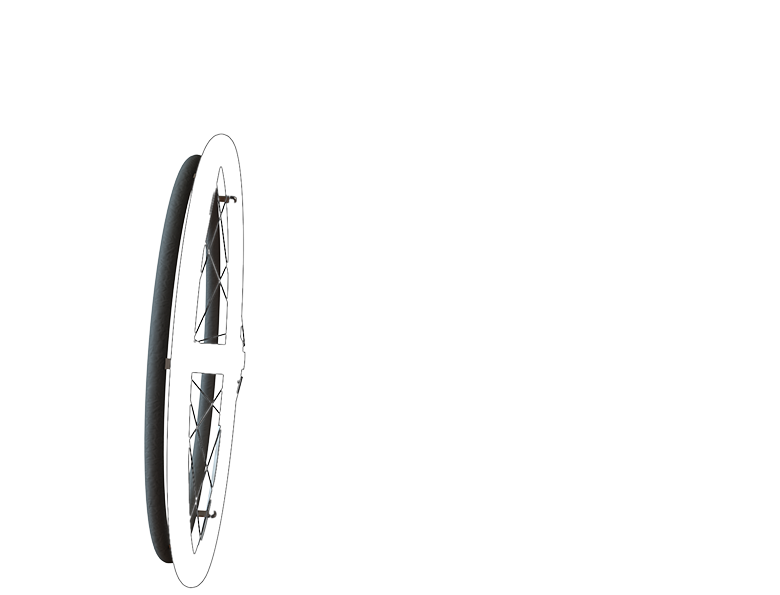
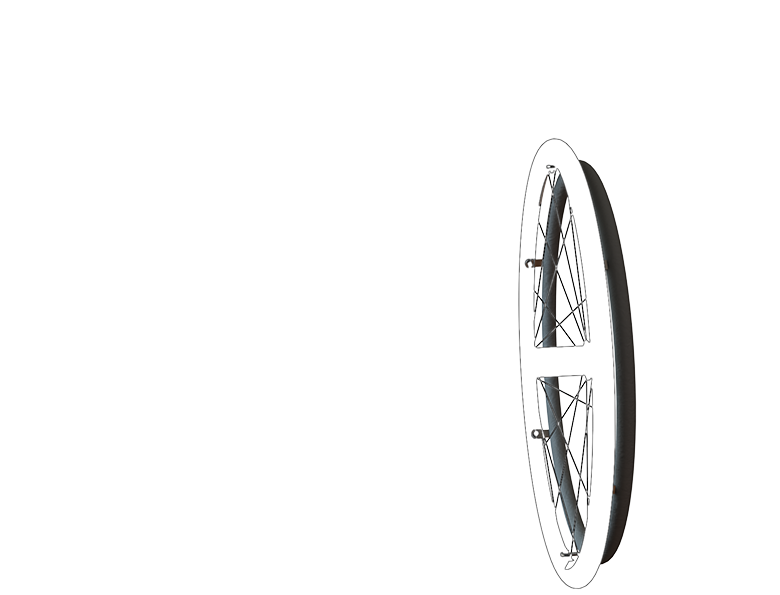
product working version.  problem: loading glitch when switch part

Changed region(s): [[0.6462, 0.2723, 0.8308, 0.9681], [0.1846, 0.242, 0.3385, 0.9681]]

diff --git a/app/scripts/controllers/AbacusCtrl.js b/app/scripts/controllers/AbacusCtrl.js
@@ -1,4 +1,4 @@
-// jshint unused:false
+// jshint unused:false
 /* globals frameDataFromDB, $ */
 'use strict';
 
@@ -47,6 +47,8 @@ angular.module('abacuApp')
       COLOR: 'color',
       DETAIL: 'detail'
     };
+
+    $scope.loadImgs = [];
 
     /**********************Main Variables****************************/
 
@@ -120,6 +122,7 @@ angular.module('abacuApp')
       $scope.frameData = frameDataFromDB; // all of our data about the frame (from dbLoad.js)
       generatePages();
       generateCurWheelchair();
+      $scope.loadImgs = getCurWheelchairImages();
     }
 
     init(); //Initialize the page
@@ -179,7 +182,7 @@ angular.module('abacuApp')
 
       var partURL = previewBaseURL + 'frame' + frameIDString + '/';
       partURL += 'part' + partIDString + '/';
-      partURL += optionIDString + colorString + subIndString + angleString + previewImageType;
+      partURL += optionIDString + colorString + subIndString + "_Front" + previewImageType;
 
 
 
@@ -199,7 +202,7 @@ angular.module('abacuApp')
     var oldImgs = null;
     //Returns an array of imagesURLs to be displayed
     //stacked from first to last (Ascending z-index order)
-    $scope.getCurWheelchairImages = function () {
+    function getCurWheelchairImages (){
       var imgs = [];
       //Generate array of images with zRank's
       for (var i = 0; i < curWheelchair.parts.length; i++) {
@@ -221,10 +224,10 @@ angular.module('abacuApp')
       //Keep old values for Angular's $digest
       //since img is not the same memory address as oldImg, Angular continuously reloads img until it crashes
       //If img doesn't change, simply reload the old memory for Angular
-      if (imgsUnchanged(imgs, oldImgs)) {
-        imgs = oldImgs;
-      }
-      oldImgs = imgs;
+      //if (imgsUnchanged(imgs, oldImgs)) {
+      //  imgs = oldImgs;
+      //}
+      //oldImgs = imgs;
 
       console.log(JSON.stringify(imgs));
       return imgs;
@@ -480,7 +483,7 @@ angular.module('abacuApp')
     $scope.setCurOption = function (newOptionID) {
       console.log("new Option ID : " + newOptionID);
       setOptionForPart($scope.getCurPartData().partID, newOptionID);
-      $scope.getCurWheelchairImages();
+      $scope.loadImgs = getCurWheelchairImages();
     };
 
     function setOptionForPart(partID, newOptionID) {
@@ -501,6 +504,8 @@ angular.module('abacuApp')
     $scope.setCurOptionColor = function (newColorID) {
       if ($scope.getCurPanelID() === $scope.getCurWheelchairPart().optionID) {
         setColorForPartOption($scope.getCurWheelchairPart().partID, newColorID);
+        $scope.loadImgs = getCurWheelchairImages();
+
       }
     };
 

diff --git a/app/views/Abacus.html b/app/views/Abacus.html
@@ -26,7 +26,7 @@
   <!-- CUSTOMIZE: Wheelchair Display and controls -->
   <div id="main-custom" class="main-custom" data-ng-show="getCurPageType() == pageType.CUSTOMIZE" style="position:relative;">
     <img class="main-custom-wheelchairDisplay"
-         ng-repeat="imgURL in getCurWheelchairImages() track by $index"
+         ng-repeat="imgURL in loadImgs"
          ng-src="{{imgURL.URL}}"
          ng-style="{'z-index': $index }" />
   </div>
@@ -120,7 +120,7 @@
                 <h4>${{option.price}} | {{option.weight}}lbs</h4>
                 <div class="sideBar-custom-item-button text-center"
                      ng-class="{'selected': getCurWheelchairPart().optionID === option.optionID}"
-                     ng-click="getCurWheelchairPart().optionID = option.optionID;">Add</div>
+                     ng-click="setCurOption(option.optionID);">Add</div>
                 <p>{{option.desc}}</p>
               </div>
             </td>
